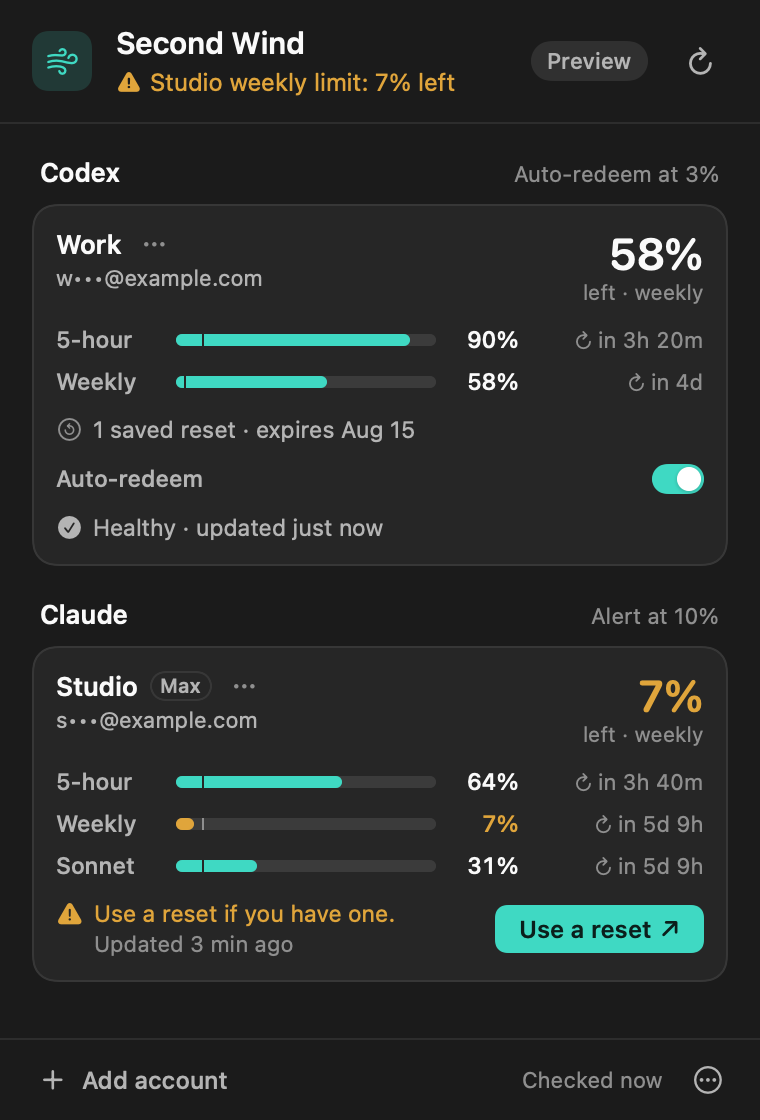
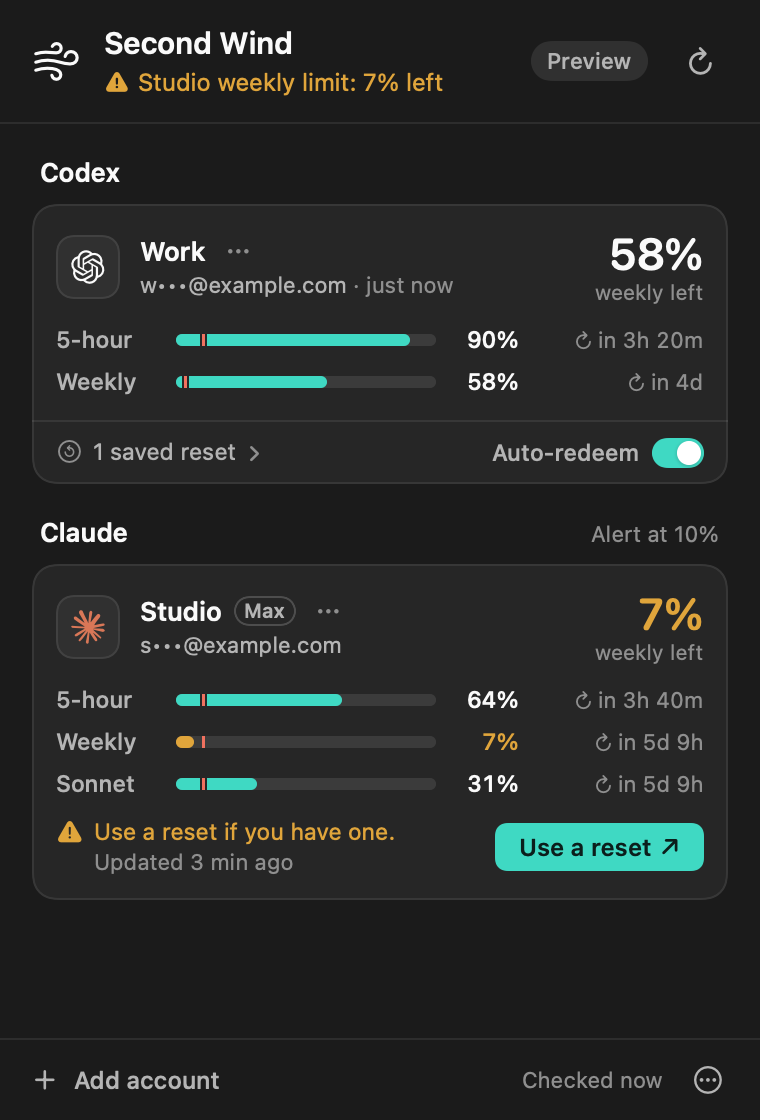
Bring the website up to date with Antigravity, sync and the new app look (#36)
* Bring the website up to date with Antigravity, sync and the new app look

The site still described only Codex and Claude, said readings never leave
the Mac, asked for an email when adding an account, and showed 0.3.2
screenshots. Add Antigravity to the copy and install needs, note sync's
iCloud Drive path and opt-in default, and re-render the popover screens
and social image from the app's synthetic previews.

* Scope Antigravity and sync claims to what the app does

---------

diff --git a/site/index.html b/site/index.html
@@ -3,8 +3,8 @@
   <head>
     <meta charset="UTF-8" />
     <meta name="viewport" content="width=device-width, initial-scale=1" />
-    <title>Second Wind: Codex and Claude limits in your Mac menu bar</title>
-    <meta name="description" content="A free, open-source Mac menu-bar app that shows your Codex and Claude usage limits for every account and helps you use a reset before you run out. Not affiliated with OpenAI or Anthropic." />
+    <title>Second Wind: Codex, Claude and Antigravity limits in your Mac menu bar</title>
+    <meta name="description" content="A free, open-source Mac menu-bar app that shows your Codex and Claude usage limits for every account, plus your Antigravity quota, and helps you use a reset before you run out. Not affiliated with OpenAI, Anthropic or Google." />
     <link rel="canonical" href="https://secondwind.nickymolina.com/" />
     <meta name="color-scheme" content="dark light" />
     <meta name="theme-color" content="#1B1B1B" media="(prefers-color-scheme: dark)" />
@@ -14,14 +14,14 @@
     <meta property="og:site_name" content="Second Wind" />
     <meta property="og:url" content="https://secondwind.nickymolina.com/" />
     <meta property="og:title" content="Second Wind" />
-    <meta property="og:description" content="Codex and Claude usage limits for every account, in your Mac menu bar. Free and open source." />
+    <meta property="og:description" content="Codex and Claude usage limits for every account, plus Antigravity, in your Mac menu bar. Free and open source." />
     <meta property="og:image" content="https://secondwind.nickymolina.com/og.png" />
     <meta property="og:image:width" content="1200" />
     <meta property="og:image:height" content="630" />
     <meta property="og:image:alt" content="Second Wind. Codex and Claude usage limits in your Mac menu bar, beside the app's popover showing a Codex account and a Claude account." />
     <meta name="twitter:card" content="summary_large_image" />
     <meta name="twitter:title" content="Second Wind" />
-    <meta name="twitter:description" content="Codex and Claude usage limits for every account, in your Mac menu bar. Free and open source." />
+    <meta name="twitter:description" content="Codex and Claude usage limits for every account, plus Antigravity, in your Mac menu bar. Free and open source." />
     <meta name="twitter:image" content="https://secondwind.nickymolina.com/og.png" />
   </head>
   <body>
@@ -29,7 +29,7 @@
     <noscript>
       <div class="noscript">
         <h1>Second Wind</h1>
-        <p>A free, open-source Mac menu-bar app that shows your Codex and Claude usage limits for every account and helps you use a reset before you run out.</p>
+        <p>A free, open-source Mac menu-bar app that shows your Codex and Claude usage limits for every account, plus your Antigravity quota, and helps you use a reset before you run out.</p>
         <!-- install-steps -->
         <p>Full steps are in the <a href="https://github.com/nicolasdmolina/codex-weekly-reset-guard#build-and-install">README</a>. Read the <a href="https://github.com/nicolasdmolina/codex-weekly-reset-guard/blob/main/docs/PRIVACY.md">privacy notes</a>.</p>
         <p>Second Wind is independent, open-source software. It is not made by, affiliated with or endorsed by OpenAI or Anthropic.</p>

diff --git a/site/src/sections/Install.tsx b/site/src/sections/Install.tsx
@@ -6,7 +6,13 @@ import { Link } from '@astryxdesign/core/Link';
 import { Text } from '@astryxdesign/core/Text';
 import { Download } from '../components/icons';
 import { SCREEN_HEIGHT, SCREEN_WIDTH, onboardingScreen } from '../components/screens';
-import { APPLE_OPEN_APPS_URL, CLAUDE_CODE_SETUP_URL, CODEX_SETUP_URL, README_INSTALL_URL } from '../config';
+import {
+  ANTIGRAVITY_CLI_SETUP_URL,
+  APPLE_OPEN_APPS_URL,
+  CLAUDE_CODE_SETUP_URL,
+  CODEX_SETUP_URL,
+  README_INSTALL_URL,
+} from '../config';
 import { INSTALL } from '../install';
 import { checkCommands, macRequirement, type InstallPlan, type VerifiedDownload } from '../release';
 
@@ -26,7 +32,7 @@ function sentence(phrase: string): string {
 function Services() {
   return (
     <>
-      The official{' '}
+      The official tool for each service you use: the{' '}
       <Link href={CODEX_SETUP_URL} isExternalLink>
         Codex CLI or app
       </Link>
@@ -34,7 +40,11 @@ function Services() {
       <Link href={CLAUDE_CODE_SETUP_URL} isExternalLink>
         Claude Code
       </Link>
-      , or both.
+      , or the{' '}
+      <Link href={ANTIGRAVITY_CLI_SETUP_URL} isExternalLink>
+        Antigravity CLI
+      </Link>
+      .
     </>
   );
 }
@@ -54,8 +64,9 @@ function AccountStep({ opening }: { opening: string }) {
         Add an account
       </Heading>
       <Text as="p" color="secondary" className="prose">
-        {opening} Pick Codex or Claude, enter the account&rsquo;s email and sign in through your
-        browser. Launch at login is in the &bull;&bull;&bull; menu.
+        {opening} Pick Codex or Claude and sign in through your browser. Pick Antigravity to
+        follow the account signed in to its CLI; open <code>agy</code> and sign in once first.
+        Launch at login is in the &bull;&bull;&bull; menu.
       </Text>
     </li>
   );

diff --git a/site/src/sections/HowItWorks.tsx b/site/src/sections/HowItWorks.tsx
@@ -43,8 +43,8 @@ export function HowItWorks() {
             </Heading>
             <Text as="p" color="secondary" className="prose">
               For each Codex account you see how much of the week is left, when it renews and how
-              many resets you have saved. Turn on auto-redeem and it uses a reset only when all of
-              this is true:
+              many resets you have saved. Codex Free shows its monthly limit instead and never
+              auto-redeems. Turn on auto-redeem and it uses a reset only when all of this is true:
             </Text>
             <InView
               viewOptions={{ once: true, margin: '0px 0px -15% 0px' }}
@@ -90,6 +90,16 @@ export function HowItWorks() {
               Claude&rsquo;s usage settings, where you can reset it yourself if Anthropic has given you
               one. Anthropic doesn&rsquo;t let other apps do that step, so Second Wind doesn&rsquo;t
               try.
+            </Text>
+          </article>
+          <article className="compare__col compare__col--wide">
+            <Heading level={3} className="compare__title">
+              Antigravity shows each model group&rsquo;s quota
+            </Heading>
+            <Text as="p" color="secondary" className="prose">
+              Second Wind follows the account signed in to the Antigravity CLI on your Mac. You see
+              the weekly and 5-hour limits it reports for each model group, and when they refill. You get one notification at 10%. Turn on refill alerts in Settings to hear
+              when a used-up limit works again. Google applies the refill.
             </Text>
           </article>
         </div>

diff --git a/site/src/sections/Privacy.tsx b/site/src/sections/Privacy.tsx
@@ -6,7 +6,7 @@ import { PRIVACY_URL } from '../config';
 const facts = [
   {
     title: 'It signs in through the official tools.',
-    body: 'Each account runs Codex or Claude Code in its own private folder, so your everyday sign-in stays as it is. It never calls private endpoints.',
+    body: 'Each Codex or Claude account runs the official tool in its own private folder, so your everyday sign-in stays as it is. Antigravity uses the sign-in its CLI already has. It never calls private endpoints.',
   },
   {
     title: 'It never touches your tokens.',
@@ -14,11 +14,11 @@ const facts = [
   },
   {
     title: 'No analytics and no server.',
-    body: 'No tracking, no crash uploads, no backend of ours. Accounts and readings stay on your Mac. Codex and Claude Code still talk to OpenAI and Anthropic as they always do.',
+    body: 'No tracking, no crash uploads, no backend of ours. Accounts and readings stay on your Mac. If you turn on sync, Codex and Claude accounts and readings also go to your other Macs through your own iCloud Drive. The official tools still talk to OpenAI, Anthropic and Google as they always do.',
   },
   {
     title: 'Nothing is on until you turn it on.',
-    body: 'Auto-redeem starts off for every account, and so does launch at login.',
+    body: 'Auto-redeem starts off for every account. So do launch at login and sync with your other Macs.',
   },
 ];
 

diff --git a/site/src/sections/Faq.tsx b/site/src/sections/Faq.tsx
@@ -10,11 +10,15 @@ const questions = [
   },
   {
     q: 'Can it promise I never run out?',
-    a: 'No. It checks Codex every minute and Claude every 5 minutes, and only while the app is open and your Mac is awake and online. Auto-redeem waits until 3%, so up to 3% of a week can go unused.',
+    a: 'No. It checks Codex every minute and Claude and Antigravity every 5 minutes, and only while the app is open and your Mac is awake and online. Auto-redeem waits until 3%, so up to 3% of a week can go unused.',
   },
   {
-    q: 'Will it sign me out of Codex or Claude Code?',
-    a: 'No. Every account it watches has its own folder, separate from your normal sign-in.',
+    q: 'Will it sign me out of Codex, Claude Code or Antigravity?',
+    a: 'No. Each Codex and Claude account it watches has its own folder, separate from your normal sign-in. Antigravity reads the account already signed in to its CLI and doesn’t change it.',
+  },
+  {
+    q: 'Can I see accounts from my other Macs?',
+    a: 'Yes, for Codex and Claude accounts. Turn on Sync with your other Macs in Settings on each Mac. It uses your iCloud Drive. The same account on two Macs shows as one card, and Second Wind won’t turn on Auto-redeem for an account another Mac already redeems.',
   },
   {
     q: 'I use Codex Weekly Reset Guard. What happens?',

diff --git a/site/src/sections/Hero.tsx b/site/src/sections/Hero.tsx
@@ -29,7 +29,7 @@ const primaryAction =
     : { href: '#install', label: 'Install from source', endContent: <ArrowDown /> };
 
 const version = INSTALL.kind === 'app' ? `Version ${INSTALL.release.version}. ` : '';
-const note = `${version}Free and open source. Not affiliated with OpenAI or Anthropic.`;
+const note = `${version}Free and open source. Not affiliated with OpenAI, Anthropic or Google.`;
 
 export function Hero() {
   const reduceMotion = useReducedMotion();
@@ -49,8 +49,8 @@ export function Hero() {
             <span id="hero-title">Second Wind</span>
           </Heading>
           <Text as="p" size="lg" color="secondary" className="hero__lede" textWrap="pretty">
-            See your Codex and Claude usage limits for every account in the Mac menu bar. When a
-            limit runs low, it helps you use a reset before you run out.
+            See your Codex and Claude usage limits for every account, plus your Antigravity quota,
+            in the Mac menu bar. When a limit runs low, it helps you use a reset before you run out.
           </Text>
           <div className="hero__actions">
             <Button

diff --git a/site/src/release.ts b/site/src/release.ts
@@ -161,12 +161,12 @@ function escapeHtml(text: string): string {
   return text.replace(/[&<>"']/g, (character) => `&#${character.charCodeAt(0)};`);
 }
 
-const SERVICES = 'the official Codex CLI or app, Claude Code, or both';
+const SERVICES = 'the official tool for each service you use: the Codex CLI or app, Claude Code, or the Antigravity CLI';
 
 // The no-JavaScript fallback in index.html, rendered at build time from the same plan.
 export function installNoscriptHtml(plan: InstallPlan): string {
   const e = escapeHtml;
-  const account = '<li>The app opens as a wind symbol in your menu bar. Pick Codex or Claude and sign in.</li>';
+  const account = '<li>The app opens as a wind symbol in your menu bar. Pick Codex or Claude and sign in, or pick Antigravity to follow the account signed in to its CLI. Open <code>agy</code> and sign in once first.</li>';
   switch (plan.kind) {
     case 'main':
     case 'source': {

diff --git a/site/src/sections/SiteFooter.tsx b/site/src/sections/SiteFooter.tsx
@@ -23,8 +23,8 @@ export function SiteFooter() {
         </div>
         <Text as="p" size="sm" color="secondary" className="site-footer__legal">
           Second Wind is independent, open-source software. It is not made by, affiliated with or
-          endorsed by OpenAI or Anthropic. Codex and ChatGPT are OpenAI products. Claude and Claude
-          Code are Anthropic products. Copyright 2026 Nicky Molina, released under the MIT license.
+          endorsed by OpenAI, Anthropic or Google. Codex and ChatGPT are OpenAI products. Claude and
+          Claude Code are Anthropic products. Antigravity is a Google product. Copyright 2026 Nicky Molina, released under the MIT license.
         </Text>
       </div>
     </footer>

diff --git a/site/src/config.ts b/site/src/config.ts
@@ -13,6 +13,7 @@ export const LICENSE_URL = `${REPO_URL}/blob/main/LICENSE`;
 
 export const CODEX_SETUP_URL = 'https://developers.openai.com/codex/quickstart';
 export const CLAUDE_CODE_SETUP_URL = 'https://code.claude.com/docs/en/setup';
+export const ANTIGRAVITY_CLI_SETUP_URL = 'https://antigravity.google/docs/cli-tutorial';
 
 // Apple's guide to opening apps that aren't notarized (System Settings > Privacy & Security).
 export const APPLE_OPEN_APPS_URL = 'https://support.apple.com/en-us/102445';

diff --git a/site/src/styles.css b/site/src/styles.css
@@ -404,6 +404,18 @@ p.astryx-text {
   border-inline-start: 1px solid var(--color-border);
 }
 
+/* A third provider spans both columns below the pair. */
+.compare__col--wide {
+  grid-column: 1 / -1;
+  margin-top: 40px;
+  border-top: 1px solid var(--color-border);
+}
+
+.compare .compare__col--wide {
+  padding-inline-start: 0;
+  border-inline-start: 0;
+}
+
 .compare__title {
   margin: 0 0 16px;
   font-size: 1.3125rem !important;

diff --git a/site/src/components/screens.ts b/site/src/components/screens.ts
@@ -39,5 +39,5 @@ export const desktopScreens = [codexLow, overview, claudeLow];
 
 export const onboardingScreen = {
   src: './screens/onboarding.png',
-  alt: 'Second Wind first-run screen: choose Codex or Claude, enter the account email and an optional name, then add the account.',
+  alt: 'Second Wind first-run screen: add your first account by choosing Codex, Claude or Antigravity.',
 };
